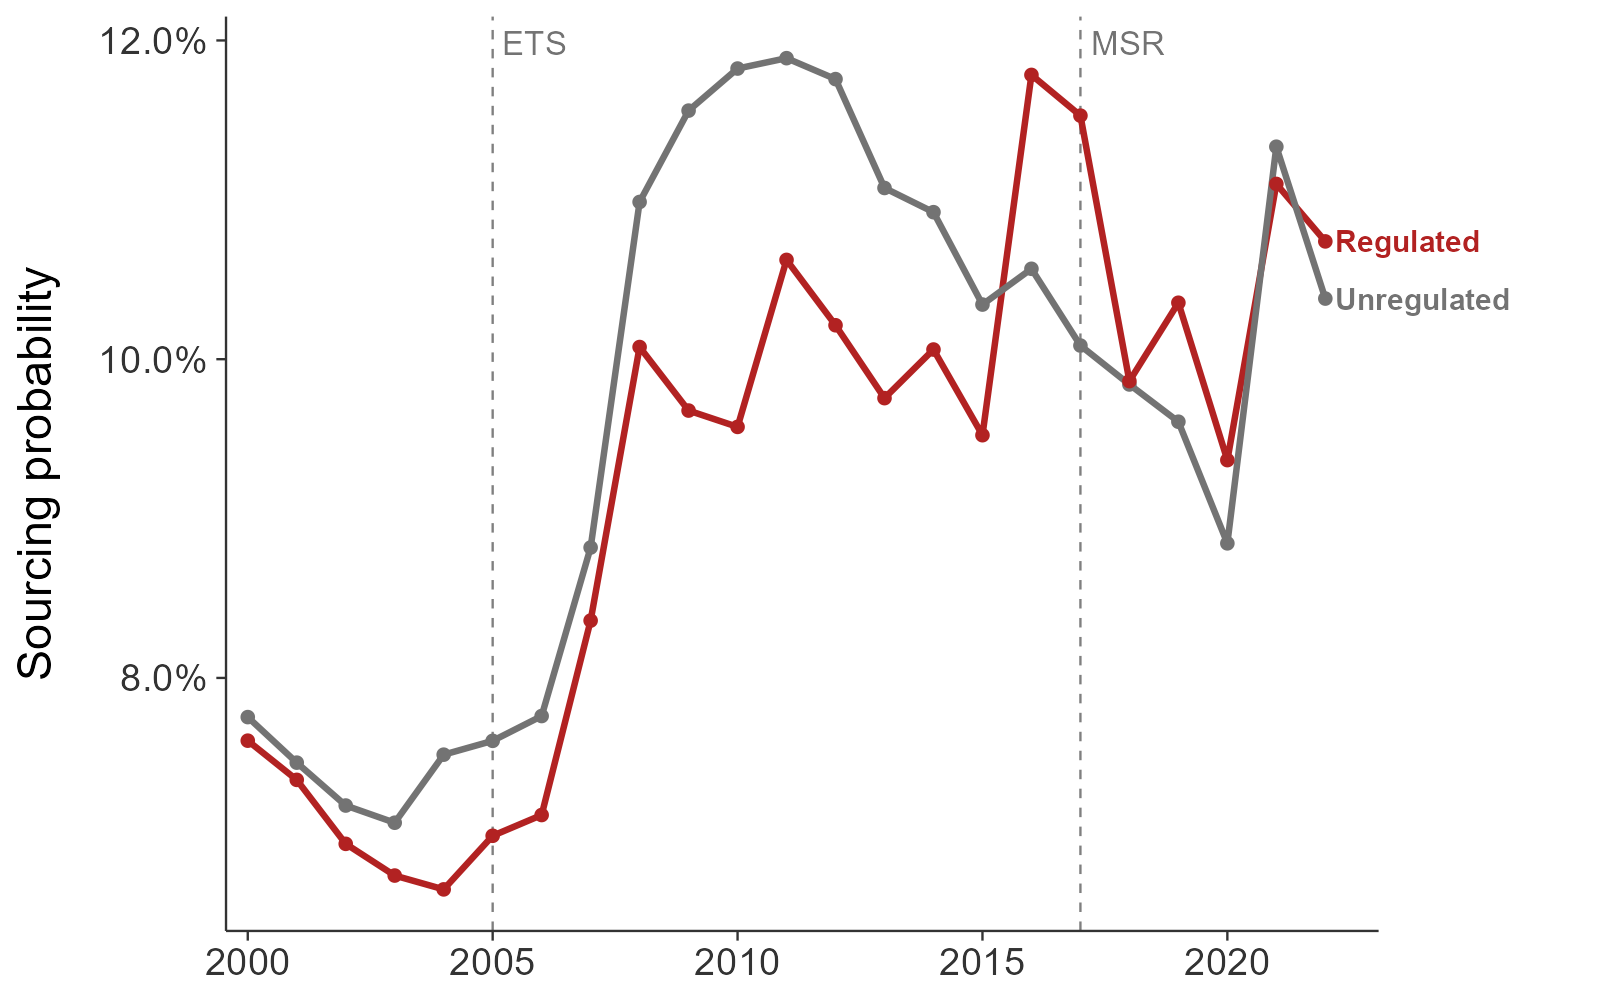
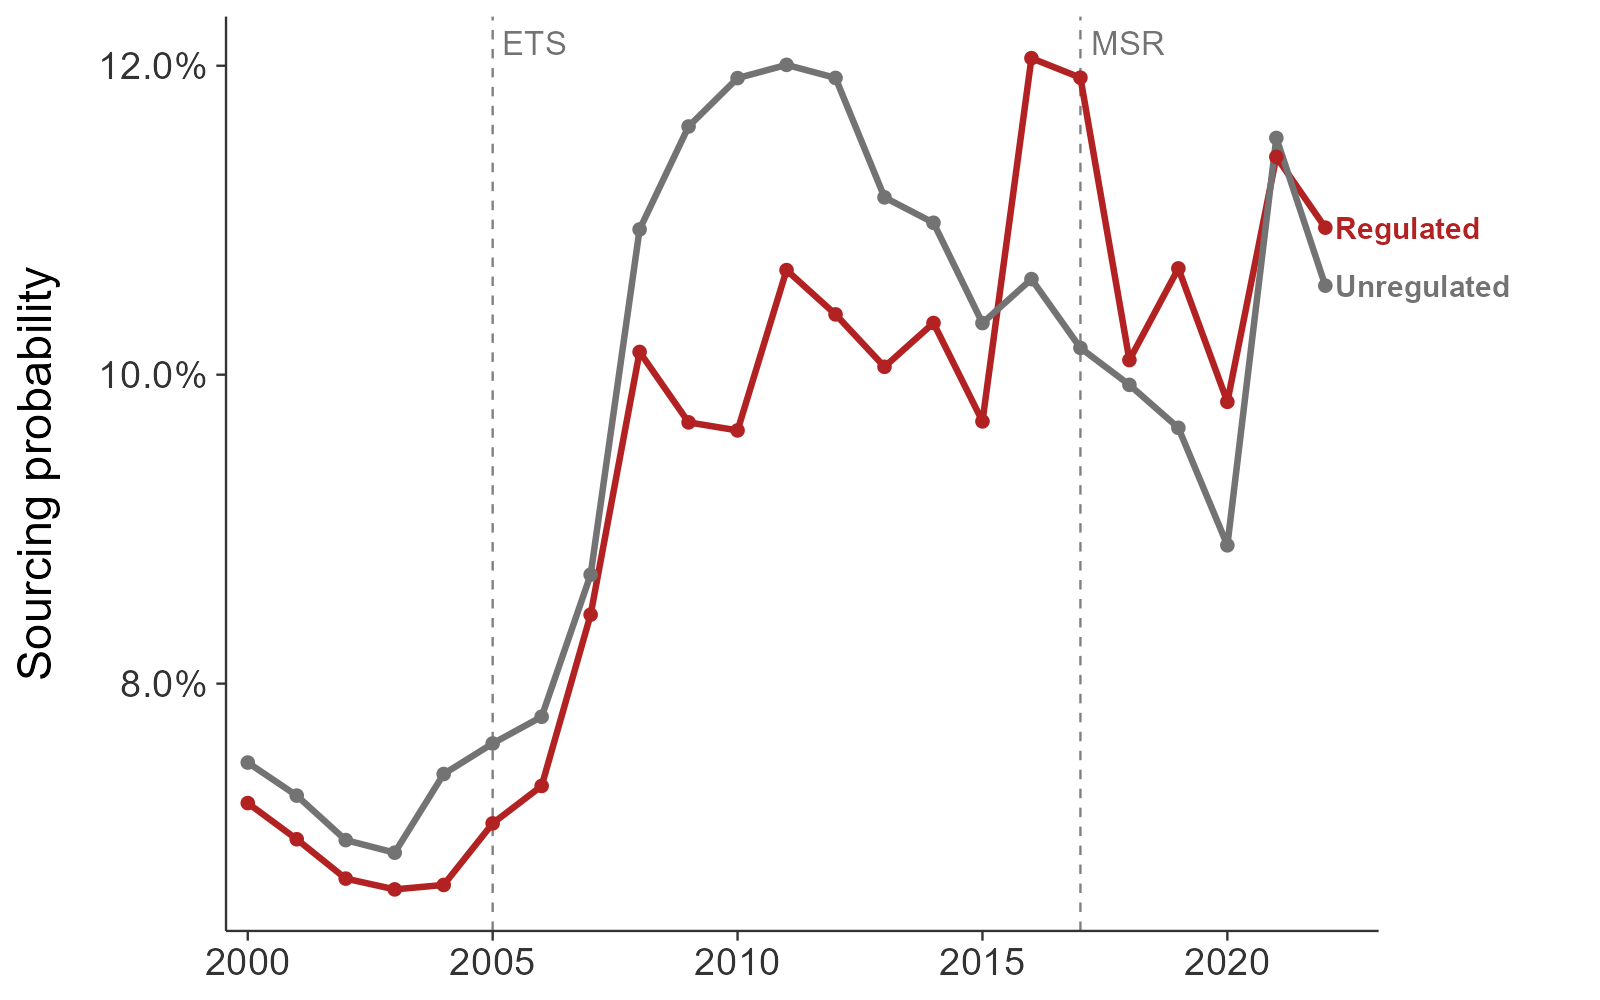
intnl leakage figure and table wout switzerland

diff --git a/output_rmd/tables/phase6_cdgm_postmsr_finer.tex b/output_rmd/tables/phase6_cdgm_postmsr_finer.tex
@@ -5,30 +5,30 @@
    \begin{tabular}{lcccc}
       \tabularnewline \midrule \midrule
       Dependent Variables: & \multicolumn{2}{c}{Import share} & \multicolumn{2}{c}{Sourcing prob.}\\
-      Model:                                   & (1)             & (2)             & (3)       & (4)\\  
+      Model:                                   & (1)             & (2)             & (3)          & (4)\\  
       \midrule
       \emph{Variables}\\
-      Phase 1 (2005--08)                       & -0.0013$^{*}$   & -0.0019$^{**}$  & -0.0027   & -0.0121$^{**}$\\   
-                                               & (0.0007)        & (0.0008)        & (0.0039)  & (0.0061)\\   
-      Phase 2 (2009--12)                       & -0.0031$^{***}$ & -0.0043$^{***}$ & -0.0108   & -0.0286$^{**}$\\   
-                                               & (0.0009)        & (0.0011)        & (0.0071)  & (0.0118)\\   
-      Phase 3a (2013--17)                      & -0.0028$^{***}$ & -0.0045$^{***}$ & 0.0025    & -0.0248$^{*}$\\   
-                                               & (0.0008)        & (0.0011)        & (0.0094)  & (0.0133)\\   
-      Phase 3b (2018--19)                      & -0.0019$^{**}$  & -0.0041$^{***}$ & 0.0026    & -0.0320$^{*}$\\   
-                                               & (0.0009)        & (0.0010)        & (0.0067)  & (0.0174)\\   
-      Phase IV (2020--22)                      & -0.0005         & -0.0031$^{***}$ & 0.0107    & -0.0293\\   
-                                               & (0.0011)        & (0.0011)        & (0.0065)  & (0.0193)\\   
-      Regulated $\times$ linear trend          &                 & 0.0001$^{*}$    &           & 0.0021$^{**}$\\   
-                                               &                 & (0.0001)        &           & (0.0010)\\   
-      Trend control                            & No              & Yes             & No        & Yes\\  
+      Phase 1 (2005--08)                       & -0.0012         & -0.0019$^{*}$   & -0.0018      & -0.0115$^{*}$\\   
+                                               & (0.0009)        & (0.0011)        & (0.0040)     & (0.0063)\\   
+      Phase 2 (2009--12)                       & -0.0031$^{***}$ & -0.0043$^{***}$ & -0.0109      & -0.0291$^{**}$\\   
+                                               & (0.0009)        & (0.0013)        & (0.0076)     & (0.0124)\\   
+      Phase 3a (2013--17)                      & -0.0027$^{***}$ & -0.0046$^{***}$ & 0.0034       & -0.0244$^{*}$\\   
+                                               & (0.0008)        & (0.0012)        & (0.0098)     & (0.0140)\\   
+      Phase 3b (2018--19)                      & -0.0019$^{*}$   & -0.0043$^{***}$ & 0.0027       & -0.0326$^{*}$\\   
+                                               & (0.0010)        & (0.0012)        & (0.0070)     & (0.0178)\\   
+      Phase IV (2020--22)                      & -0.0004         & -0.0031$^{**}$  & 0.0117$^{*}$ & -0.0290\\   
+                                               & (0.0011)        & (0.0013)        & (0.0067)     & (0.0196)\\   
+      Regulated $\times$ linear trend          &                 & 0.0001$^{**}$   &              & 0.0021$^{**}$\\   
+                                               &                 & (0.0001)        &              & (0.0010)\\   
+      Trend control                            & No              & Yes             & No           & Yes\\  
       \midrule
       \emph{Fixed-effects}\\
-      Firm $\times$ product $\times$ country   & Yes             & Yes             & Yes       & Yes\\  
-      Country $\times$ year                    & Yes             & Yes             & Yes       & Yes\\  
-      Sector $\times$ year                     & Yes             & Yes             & Yes       & Yes\\  
+      Firm $\times$ product $\times$ country   & Yes             & Yes             & Yes          & Yes\\  
+      Country $\times$ year                    & Yes             & Yes             & Yes          & Yes\\  
+      Sector $\times$ year                     & Yes             & Yes             & Yes          & Yes\\  
       \midrule
       \emph{Fit statistics}\\
-      Observations                             & 4,928,403       & 4,928,403       & 4,928,403 & 4,928,403\\  
+      Observations                             & 4,644,560       & 4,644,560       & 4,644,560    & 4,644,560\\  
       \midrule \midrule
       \multicolumn{5}{l}{\emph{Clustered (vat \& partner\_iso2) standard-errors in parentheses}}\\
       \multicolumn{5}{l}{\emph{Signif. Codes: ***: 0.01, **: 0.05, *: 0.1}}\\

diff --git a/output_rmd/tables/phase6_cdgm_postmsr_nested.tex b/output_rmd/tables/phase6_cdgm_postmsr_nested.tex
@@ -5,28 +5,28 @@
    \begin{tabular}{lcccc}
       \tabularnewline \midrule \midrule
       Dependent Variables: & \multicolumn{2}{c}{Import share} & \multicolumn{2}{c}{Sourcing prob.}\\
-      Model:                                   & (1)             & (2)             & (3)       & (4)\\  
+      Model:                                   & (1)             & (2)             & (3)          & (4)\\  
       \midrule
       \emph{Variables}\\
-      Phase 1 (2005--08)                       & -0.0013$^{*}$   & -0.0020$^{**}$  & -0.0027   & -0.0102$^{*}$\\   
-                                               & (0.0007)        & (0.0009)        & (0.0039)  & (0.0060)\\   
-      Phase 2 (2009--12)                       & -0.0031$^{***}$ & -0.0045$^{***}$ & -0.0108   & -0.0249$^{**}$\\   
-                                               & (0.0009)        & (0.0012)        & (0.0071)  & (0.0112)\\   
-      Phase 3 (2013--19)                       & -0.0025$^{***}$ & -0.0047$^{***}$ & 0.0025    & -0.0207\\   
-                                               & (0.0008)        & (0.0012)        & (0.0081)  & (0.0140)\\   
-      Phase IV (2020--22)                      & -0.0005         & -0.0035$^{***}$ & 0.0107    & -0.0210\\   
-                                               & (0.0011)        & (0.0012)        & (0.0065)  & (0.0155)\\   
-      Regulated $\times$ linear trend          &                 & 0.0002$^{*}$    &           & 0.0017$^{**}$\\   
-                                               &                 & (0.0001)        &           & (0.0007)\\   
-      Trend control                            & No              & Yes             & No        & Yes\\  
+      Phase 1 (2005--08)                       & -0.0012         & -0.0019$^{*}$   & -0.0018      & -0.0094\\   
+                                               & (0.0009)        & (0.0011)        & (0.0040)     & (0.0062)\\   
+      Phase 2 (2009--12)                       & -0.0031$^{***}$ & -0.0044$^{***}$ & -0.0109      & -0.0251$^{**}$\\   
+                                               & (0.0009)        & (0.0014)        & (0.0076)     & (0.0120)\\   
+      Phase 3 (2013--19)                       & -0.0025$^{***}$ & -0.0048$^{***}$ & 0.0032       & -0.0201\\   
+                                               & (0.0008)        & (0.0013)        & (0.0084)     & (0.0150)\\   
+      Phase IV (2020--22)                      & -0.0004         & -0.0034$^{***}$ & 0.0117$^{*}$ & -0.0201\\   
+                                               & (0.0011)        & (0.0013)        & (0.0067)     & (0.0163)\\   
+      Regulated $\times$ linear trend          &                 & 0.0002$^{**}$   &              & 0.0017$^{**}$\\   
+                                               &                 & (0.0001)        &              & (0.0008)\\   
+      Trend control                            & No              & Yes             & No           & Yes\\  
       \midrule
       \emph{Fixed-effects}\\
-      Firm $\times$ product $\times$ country   & Yes             & Yes             & Yes       & Yes\\  
-      Country $\times$ year                    & Yes             & Yes             & Yes       & Yes\\  
-      Sector $\times$ year                     & Yes             & Yes             & Yes       & Yes\\  
+      Firm $\times$ product $\times$ country   & Yes             & Yes             & Yes          & Yes\\  
+      Country $\times$ year                    & Yes             & Yes             & Yes          & Yes\\  
+      Sector $\times$ year                     & Yes             & Yes             & Yes          & Yes\\  
       \midrule
       \emph{Fit statistics}\\
-      Observations                             & 4,928,403       & 4,928,403       & 4,928,403 & 4,928,403\\  
+      Observations                             & 4,644,560       & 4,644,560       & 4,644,560    & 4,644,560\\  
       \midrule \midrule
       \multicolumn{5}{l}{\emph{Clustered (vat \& partner\_iso2) standard-errors in parentheses}}\\
       \multicolumn{5}{l}{\emph{Signif. Codes: ***: 0.01, **: 0.05, *: 0.1}}\\
